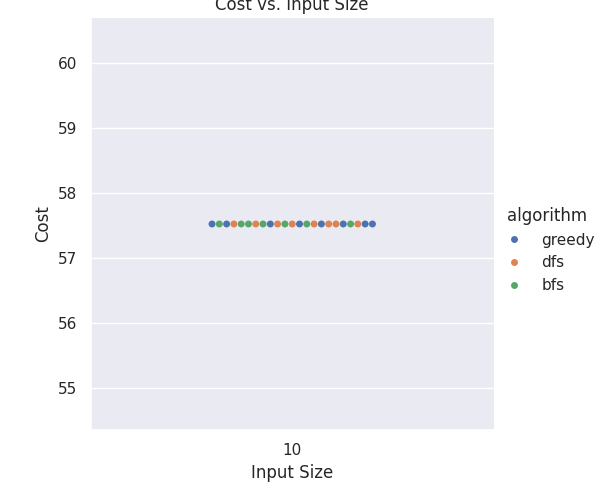
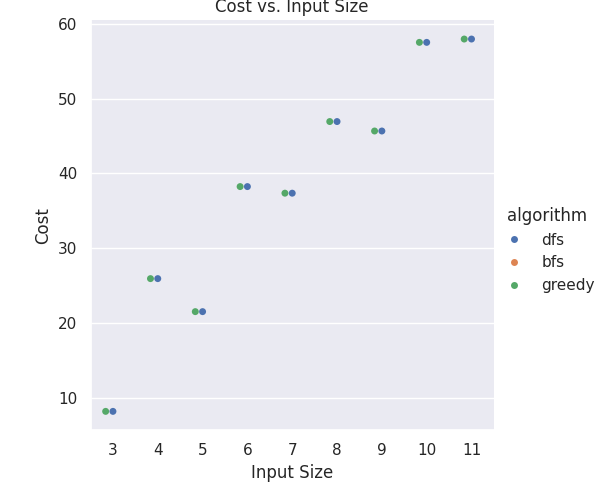
I guess we're going to be fine with this

diff --git a/Douglas_Richard_p2/python/traversal.py b/Douglas_Richard_p2/python/traversal.py
@@ -26,7 +26,7 @@ def calculate_cost(parser, path):
     return cost
 def dfs_rec(adj, visited, s, d, t, r, best_cost, lh, lhp, parser, tsp_gui):
     visited[s] = True
-    
+    temp = []
     # Recursively visit all adjacent vertices
     for i in adj[s]:
         
@@ -47,18 +47,20 @@ def dfs_rec(adj, visited, s, d, t, r, best_cost, lh, lhp, parser, tsp_gui):
             else:
                 # Continue the recursion if destination not found
                 dfs_rec(adj, visited, i, d, temp, r, best_cost, lh, lhp, parser, tsp_gui)
-    gui.animate(tsp_gui, "dfs", t)
+    # gui.animate(tsp_gui, "dfs", temp, d, best_cost)
     
     # Mark the current node as unvisited for other paths (backtracking)
     visited[s] = False
 
 # the only difference we want here is to return the first valid result instead of all valid results
-def greedy_rec(adj, visited, s, d, t, r, best_cost, lh, lhp, parser):
+def greedy_rec(adj, visited, s, d, t, r, best_cost, lh, lhp, parser, tsp_gui):
     visited[s] = True
-
+    temp = []
     # Recursively visit all adjacent vertices
     for i in adj[s]:
+        
         if not visited[i]:
+            
             temp = t.copy()  # Create a copy of the current path
             temp.append(i)   # Add the next node to the path
             cost = calculate_cost(parser, temp)
@@ -68,15 +70,17 @@ def greedy_rec(adj, visited, s, d, t, r, best_cost, lh, lhp, parser):
                 if len(temp) < lh[0]:
                     lh[0] = len(temp)
                     lhp[:] = temp
-                if best_cost[0] == float("inf"): # this will only ever be triggered once
+                if cost < best_cost[0]:
                     best_cost[0] = cost
                     r[:] = temp
-                    break # swe can break the loop here, and no more recursive calls will be made
-                    # kinda hackey solution
+                    break
             else:
                 # Continue the recursion if destination not found
-                dfs_rec(adj, visited, i, d, temp, r, best_cost, lh, lhp, parser)
+                greedy_rec(adj, visited, i, d, temp, r, best_cost, lh, lhp, parser, tsp_gui)
+    # gui.animate(tsp_gui, "greedy", temp, d, best_cost)
     
+    # Mark the current node as unvisited for other paths (backtracking)
+    visited[s] = False
     # Mark the current node as unvisited for other paths (backtracking)
     visited[s] = False
 
@@ -278,8 +282,7 @@ class FullTraversal:
 class Directed:
 
     @staticmethod
-    def bfs_cost(parser, start_node, dest_node): # include branching rate? could that be useful in this context? the search space is finite, so maybe not...         
-        tsp_gui = gui.GraphApp(parser)
+    def bfs_cost(parser, start_node, dest_node, tsp_gui): # include branching rate? could that be useful in this context? the search space is finite, so maybe not...         
         start = datetime.now()  
         q = deque()
         V = [False] * len(parser.nodes.keys())  # Visited array
@@ -295,13 +298,14 @@ class Directed:
         while q:
             # Pop the front of the queue (BFS explores level-by-level)
             curr, path = q.popleft()
-            gui.animate(tsp_gui, "dfs", path)
+            # gui.animate(tsp_gui, "bfs", path, dest_node, best_cost)
 
             # If we reach the destination, calculate the cost and hops
+            cost = calculate_cost(parser, path)
+            hops = len(path) - 1
+            if cost < best_cost or hops > least_hops:
+                continue
             if curr == dest_node:
-                hops = len(path) - 1
-                cost = calculate_cost(parser, path)
-
                 # Update least hops if applicable
                 if hops < least_hops:
                     least_hops = hops
@@ -338,8 +342,8 @@ class Directed:
     
     @staticmethod
     # we are simply going to iterate through paths numerically in this implementation and track the best path so far
-    def dfs_cost(parser, start_node, dest_node):
-        tsp_gui = gui.GraphApp(parser)
+    def dfs_cost(parser, start_node, dest_node, tsp_gui):
+        
         start = datetime.now()
         # start by sorting the costs. simplifies algorithm
         adj = [[] for node in parser.nodes]
@@ -352,7 +356,6 @@ class Directed:
         best_cost_path = []
         least_hops = [float("inf")]
         least_hops_path = []
-        # dfs_rec(adj, visited, s, d, t, r, best_cost, lh, lhp, parser):
         dfs_rec(adj, visited, start_node, dest_node, traversal, best_cost_path, best_cost, least_hops, least_hops_path, parser, tsp_gui)
         runtime = datetime.now() - start
         # log collected data in parser object
@@ -371,8 +374,7 @@ class Directed:
     
     @staticmethod
     # fast search using incredibly simple (very possibly BAD) heuristic of least cost to next node
-    def greedy_cost(parser, start_node, dest_node):
-        tsp_gui = gui.GraphApp(parser)
+    def greedy_cost(parser, start_node, dest_node, tsp_gui):
         start = datetime.now()
         # start by sorting the costs. simplifies algorithm
         parser.sort_costs()
@@ -388,8 +390,7 @@ class Directed:
         best_cost_path = []
         least_hops = [float("inf")]
         least_hops_path = []
-        # dfs_rec(adj, visited, s, d, t, r, best_cost, lh, lhp, parser):
-        dfs_rec(adj, visited, start_node, dest_node, traversal, best_cost_path, best_cost, least_hops, least_hops_path, parser, tsp_gui)
+        greedy_rec(adj, visited, start_node, dest_node, traversal, best_cost_path, best_cost, least_hops, least_hops_path, parser, tsp_gui)
 
         runtime = datetime.now() - start
         # log collected data in parser object

diff --git a/Douglas_Richard_p2/python/gui.py b/Douglas_Richard_p2/python/gui.py
@@ -65,13 +65,15 @@ class GraphApp:
         self.canvas.draw()
         self.canvas.get_tk_widget().pack(fill=BOTH, expand=True)
 
-    def update(self, node_change, edge_change):
+    def update(self, node_change, edge_change, dest):
         self.ax.clear()  # Clear the previous frame
         node_change_idx = list(self.graph.nodes).index(node_change)
+        dest_idx = list(self.graph.nodes).index(dest)
         edge_change_idx = list(self.graph.edges).index(edge_change)
         # Randomly generate colors for nodes and edges
         node_colors = ['blue' for _ in range(len(self.graph.nodes))]
         edge_colors = ['magenta' for _ in range(len(self.graph.edges))]
+        node_colors[dest_idx] = 'green'
         node_colors[node_change_idx] = 'red'
         if edge_change != None:
             edge_colors[edge_change_idx] = 'yellow'
@@ -81,17 +83,34 @@ class GraphApp:
         nx.draw_networkx_edge_labels(self.graph, self.pos,edge_labels=self.edge_labels)
 
         self.canvas.draw()
+def save_animation(app, tour, filename):
+    fig = app.figure
+    def update_func(i):
+        edge = (tour[i], tour[i+1])
+        app.update(tour[i+1], edge)
+
+    ani = animation.FuncAnimation(fig, update_func, frames=len(tour)-1, repeat=False)
+    ani.save(filename, writer='ffmpeg', fps=50)  # Saving as .mp4
 
 
-def animate (app, label, tour):
+def animate (app, label, tour, dest, best_cost):
     app.label = label
+    app.root.title(f"Visualization {label}")
+
     for i in range(len(tour)-1):
         edge = (tour[i], tour[i+1])
         cost = app.parser.nodes[edge[0]]["costs"][edge[1]]
-        cost_info = f"Cost from {edge[0]} to {edge[1]}: {cost}\n"
+        cost_info = f"Cost from {edge[0]} to {edge[1]}: {cost}\n best cost {best_cost}"
         app.T.delete("0.0", END)
         app.T.insert(END, cost_info)
-        app.update(edge[1], edge)
+        app.update(edge[1], edge, dest)
         app.root.update_idletasks()
         app.root.update()
-        time.sleep(.5)
+        if edge[1] == dest: 
+            success_msg = f"SUCCESSFUL PATH: {tour} \ncost: {best_cost}\n"
+            app.T.delete("0.0", END)
+            app.T.insert(END, success_msg)
+            app.root.update_idletasks()
+            app.root.update()
+            time.sleep(3)
+        time.sleep(.1)

diff --git a/Douglas_Richard_p2/python/TSP_driver.py b/Douglas_Richard_p2/python/TSP_driver.py
@@ -39,17 +39,12 @@ def tour(tsp_file):
     n = 10
     m = "static"
     # FullTraversal object can actually modify the parser object passed into it. neat.
-    for num in [n]:
+    for num in range(3, 12):
         prsr1 = tsp_parser2.Parser(tsp_file, num_nodes=num, connection_src=m)
-        Directed().bfs_cost(prsr1, 0, dest_node=num-1)
-        Directed().dfs_cost(prsr1, 0, dest_node=num-1)
-        Directed().greedy_cost(prsr1, 0, dest_node=num-1)
-        # animation of traversal with algorithm 
         tsp_gui = gui.GraphApp(prsr1)
-        for tour_cost in prsr1.tour_costs:
-            gui.animate(tsp_gui, tour_cost["algorithm"], tour_cost["best_cost_path"])
-
-
+        Directed().bfs_cost(prsr1, 0, num-1, tsp_gui)
+        Directed().dfs_cost(prsr1, 0, num-1, tsp_gui)
+        Directed().greedy_cost(prsr1, 0, num-1, tsp_gui)
         for tour_cost in prsr1.tour_costs:
             cost_keys = list(tour_cost.keys())
             cost_vals = [tour_cost[key] for key in cost_keys]
